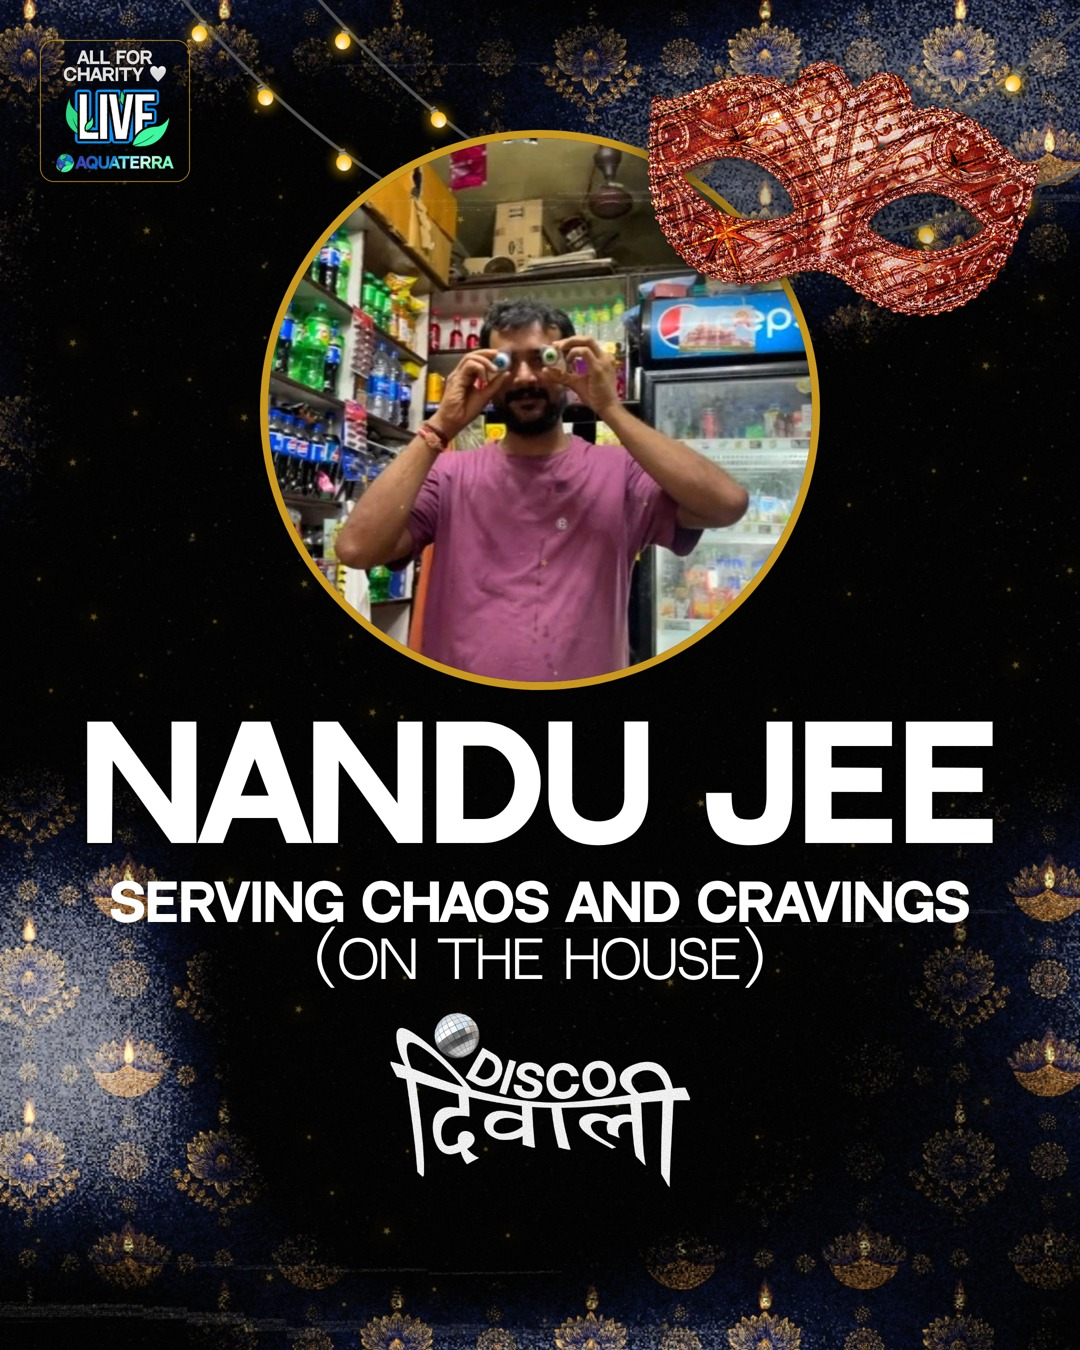
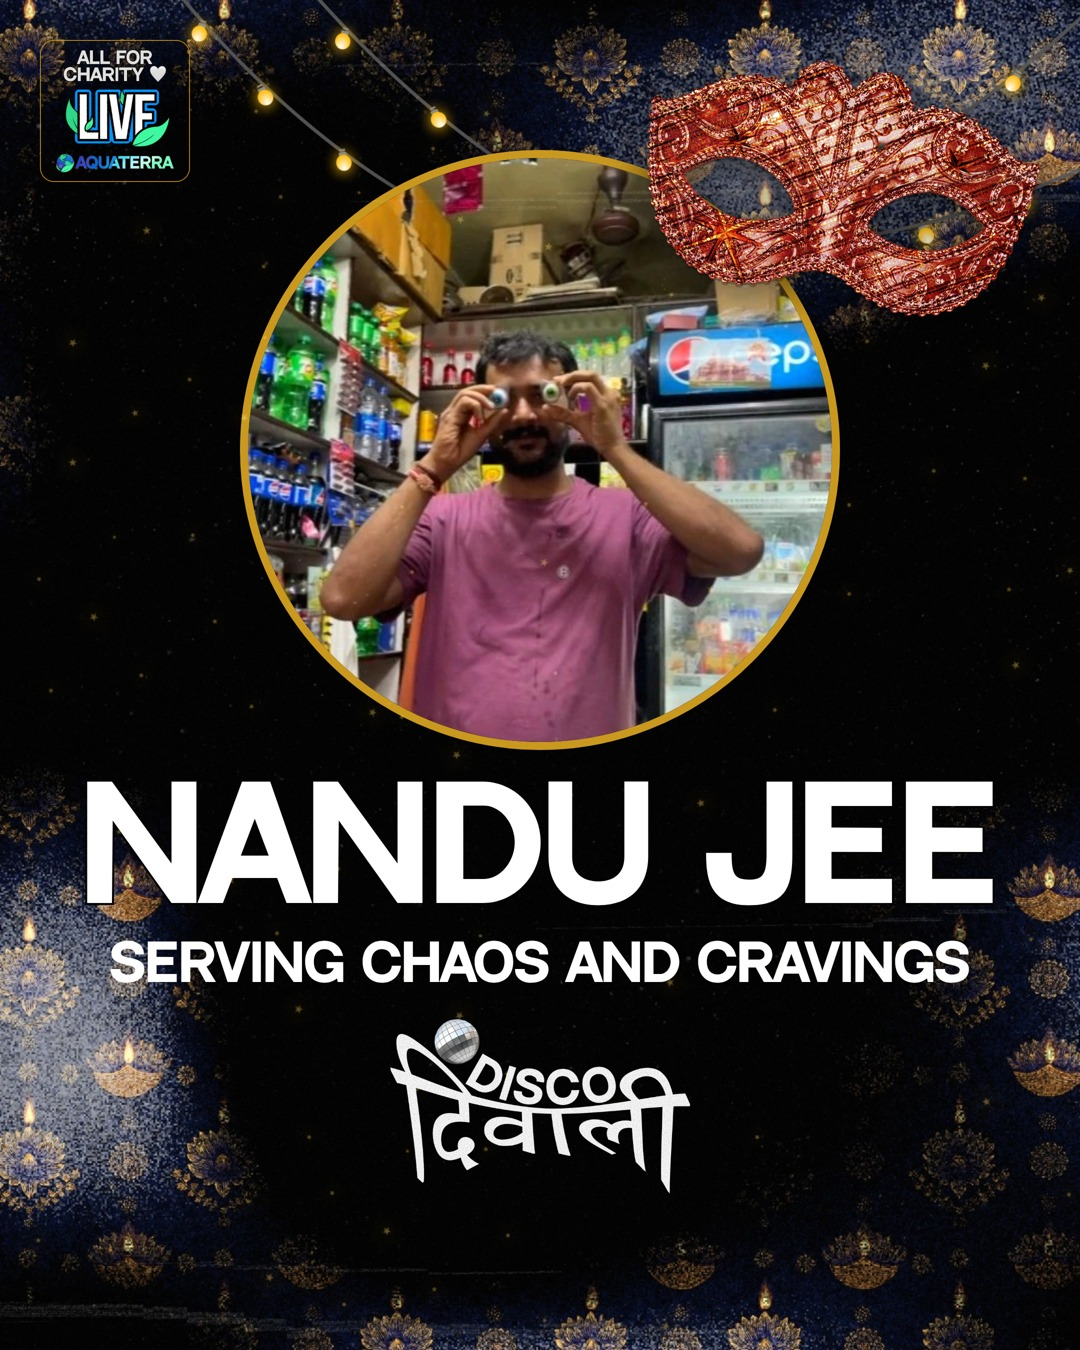
Nandu Jee poster: drop 'on the house' line, rebalance stack
Claude-Session: https://claude.ai/code/session_011Tdiin6aNXQLggVhcwaFdk

Changed region(s): [[0.0611, 0.0933, 0.9167, 0.8711], [0.6417, 0.1244, 0.6722, 0.1556]]

diff --git a/scratchpad/dd_nandu.py b/scratchpad/dd_nandu.py
@@ -3,7 +3,7 @@ From the user's Paradox reference (circular photo, big red NANDU JEE, two-part t
 (real photo in a circle, display headline, snarky tagline) and rebuilt on the Disco Diwali skeleton: diya ground, string lights, LIVE badge, copper mask tucked on the
 circle's corner, the lockup (with ball) as the footer mark. Adaptations: the Realmark title-sponsor mark, the Paradox logo and the beach palms are NOT Disco Diwali's, so they
 are dropped; the JOIN NOW / LIMITED SPOTS button becomes the story's LINK IN BIO pill (the feed, for WhatsApp, has none: nothing to link to). Copy is the user's own
-reference copy: NANDU JEE / SERVING CHAOS AND CRAVINGS (ON THE HOUSE). No date, price or venue. Photo: user-supplied portrait, consent unconfirmed.
+reference copy: NANDU JEE / SERVING CHAOS AND CRAVINGS ('on the house' dropped 2026-10-24, user). No date, price or venue. Photo: user-supplied portrait, consent unconfirmed.
 Run: PYTHONIOENCODING=utf-8 python scratchpad/dd_nandu.py  -> out/discodiwali/nandu/{feed,story}.png"""
 import asyncio, importlib.util, os, sys
 ROOT = os.path.dirname(os.path.dirname(os.path.abspath(__file__)))
@@ -24,8 +24,8 @@ def poster(H):
     bx, by, bw = 40, (210 if story else 40), 150
     parts.append(f'<img data-tag="badge" src="{dd.uri("live_badge.png")}" style="position:absolute;left:{bx}px;top:{by}px;width:{bw}px;z-index:20">'); els.append(("badge", bx, by, bw, round(bw * 1005 / 1061)))
     # the circle photo
-    d = 680 if story else 560
-    cx, cy0 = (W - d) // 2, (300 if story else 130)
+    d = 700 if story else 600
+    cx, cy0 = (W - d) // 2, (320 if story else 150)
     parts.append(f'<div data-tag="circle" style="position:absolute;left:{cx}px;top:{cy0}px;width:{d}px;height:{d}px;border-radius:50%;overflow:hidden;border:8px solid {dd.GOLD};'
                  f'box-sizing:border-box;z-index:10;box-shadow:0 14px 40px rgba(0,0,0,.6)">'
                  f'<img src="{dd.photo_uri(PHOTO)}" style="width:100%;height:100%;object-fit:cover;object-position:50% 38%;filter:contrast(1.06) saturate(1.05)"></div>')
@@ -45,8 +45,7 @@ def poster(H):
     line("head", "Nandu Jee", hy, hs, 700, hs)
     t1 = hy + hs + 14
     line("tag1", "Serving chaos and cravings", t1, 50, 700, 54, stroke=False)
-    line("tag2", "(on the house)", t1 + 58, 50, 400, 54, stroke=False)
-    y = t1 + 58 + 54 + (26 if story else 22)
+    y = t1 + 54 + (30 if story else 26)
     # footer lockup, with ball
     vw = 260 if story else 300
     t = vw / 1717; vh = round(991 * t); vx = (W - vw) // 2
